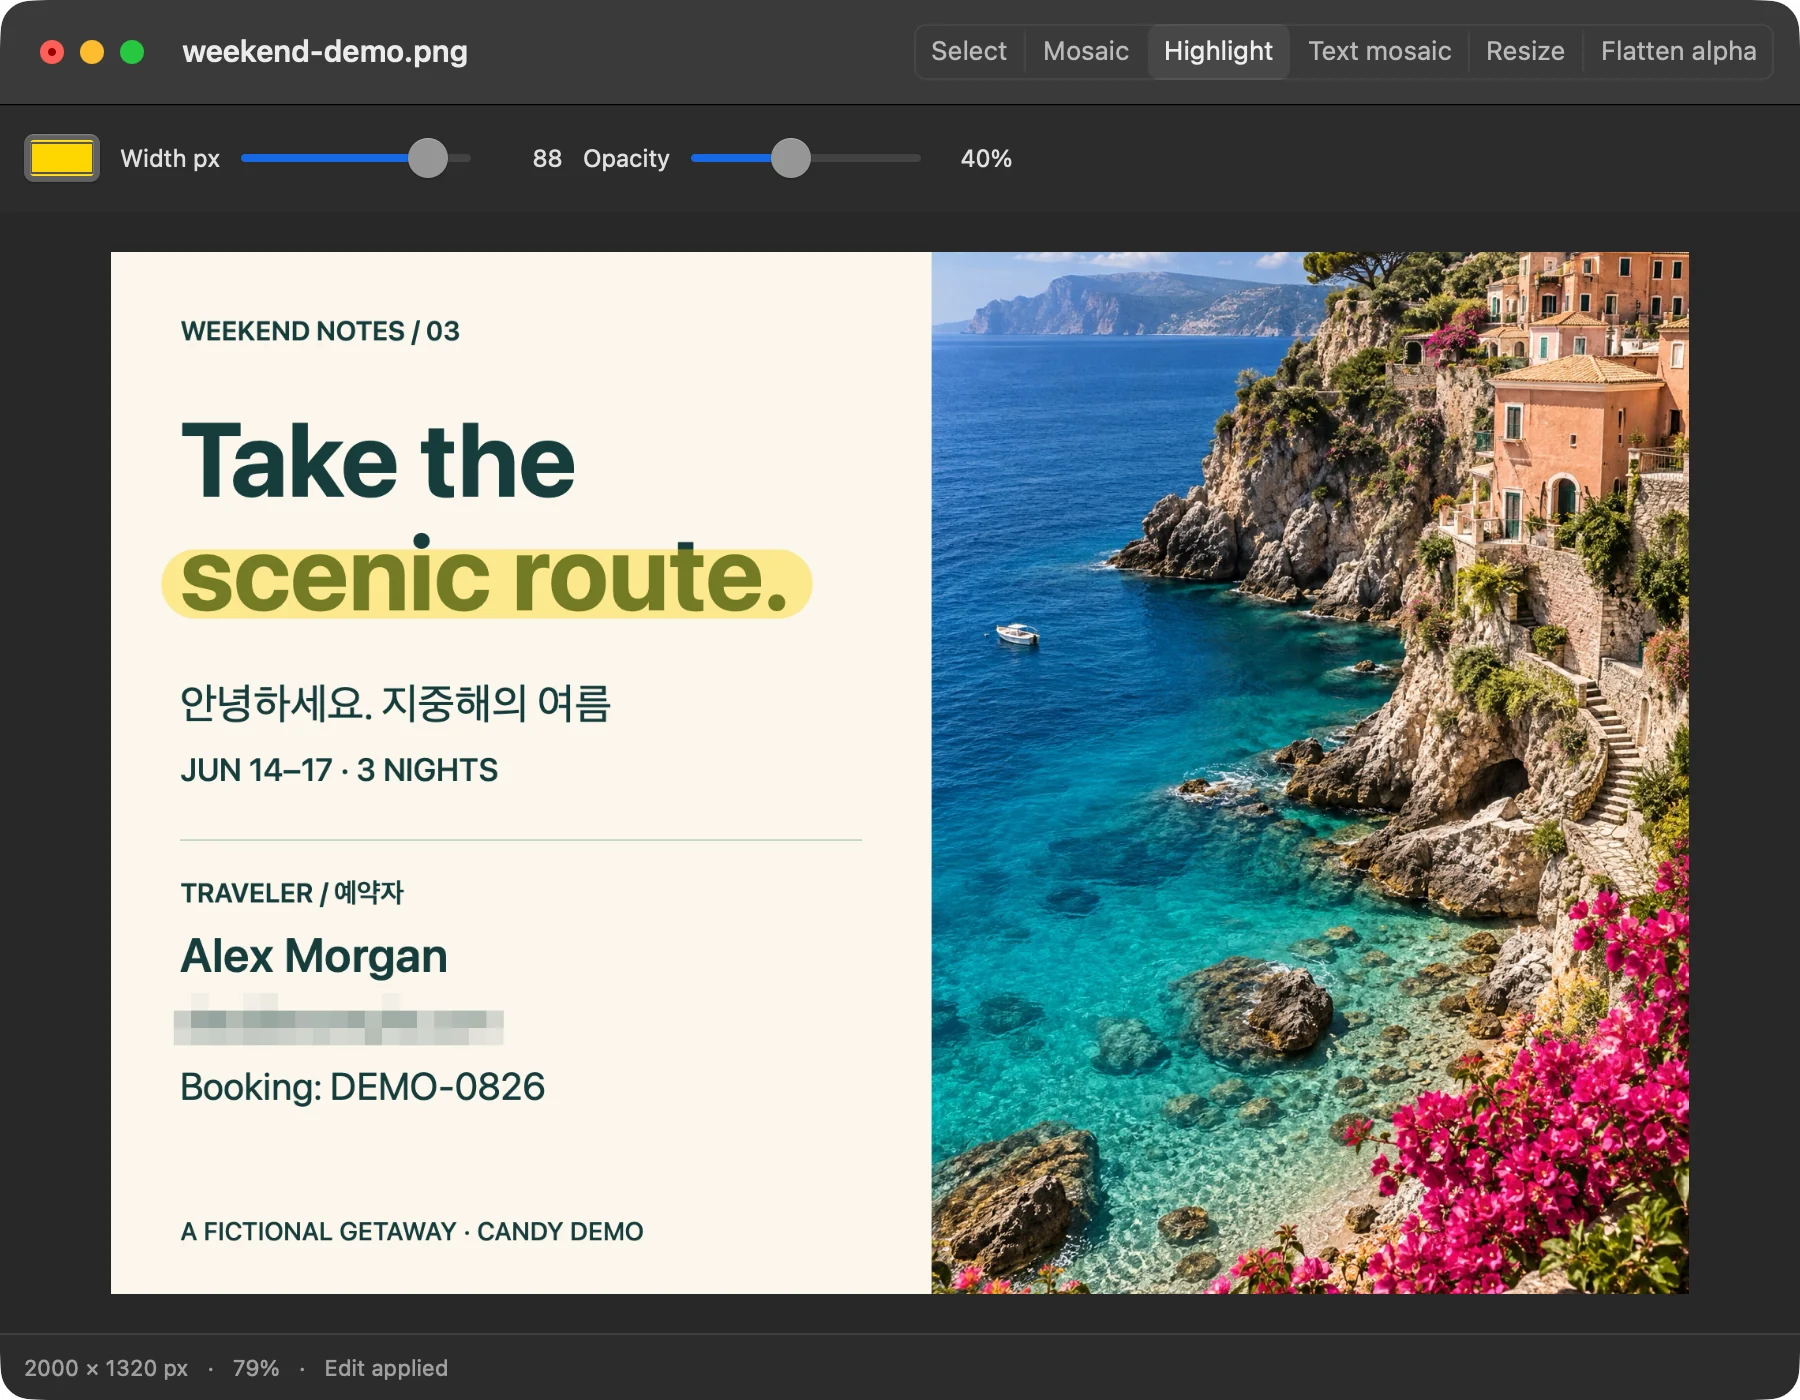
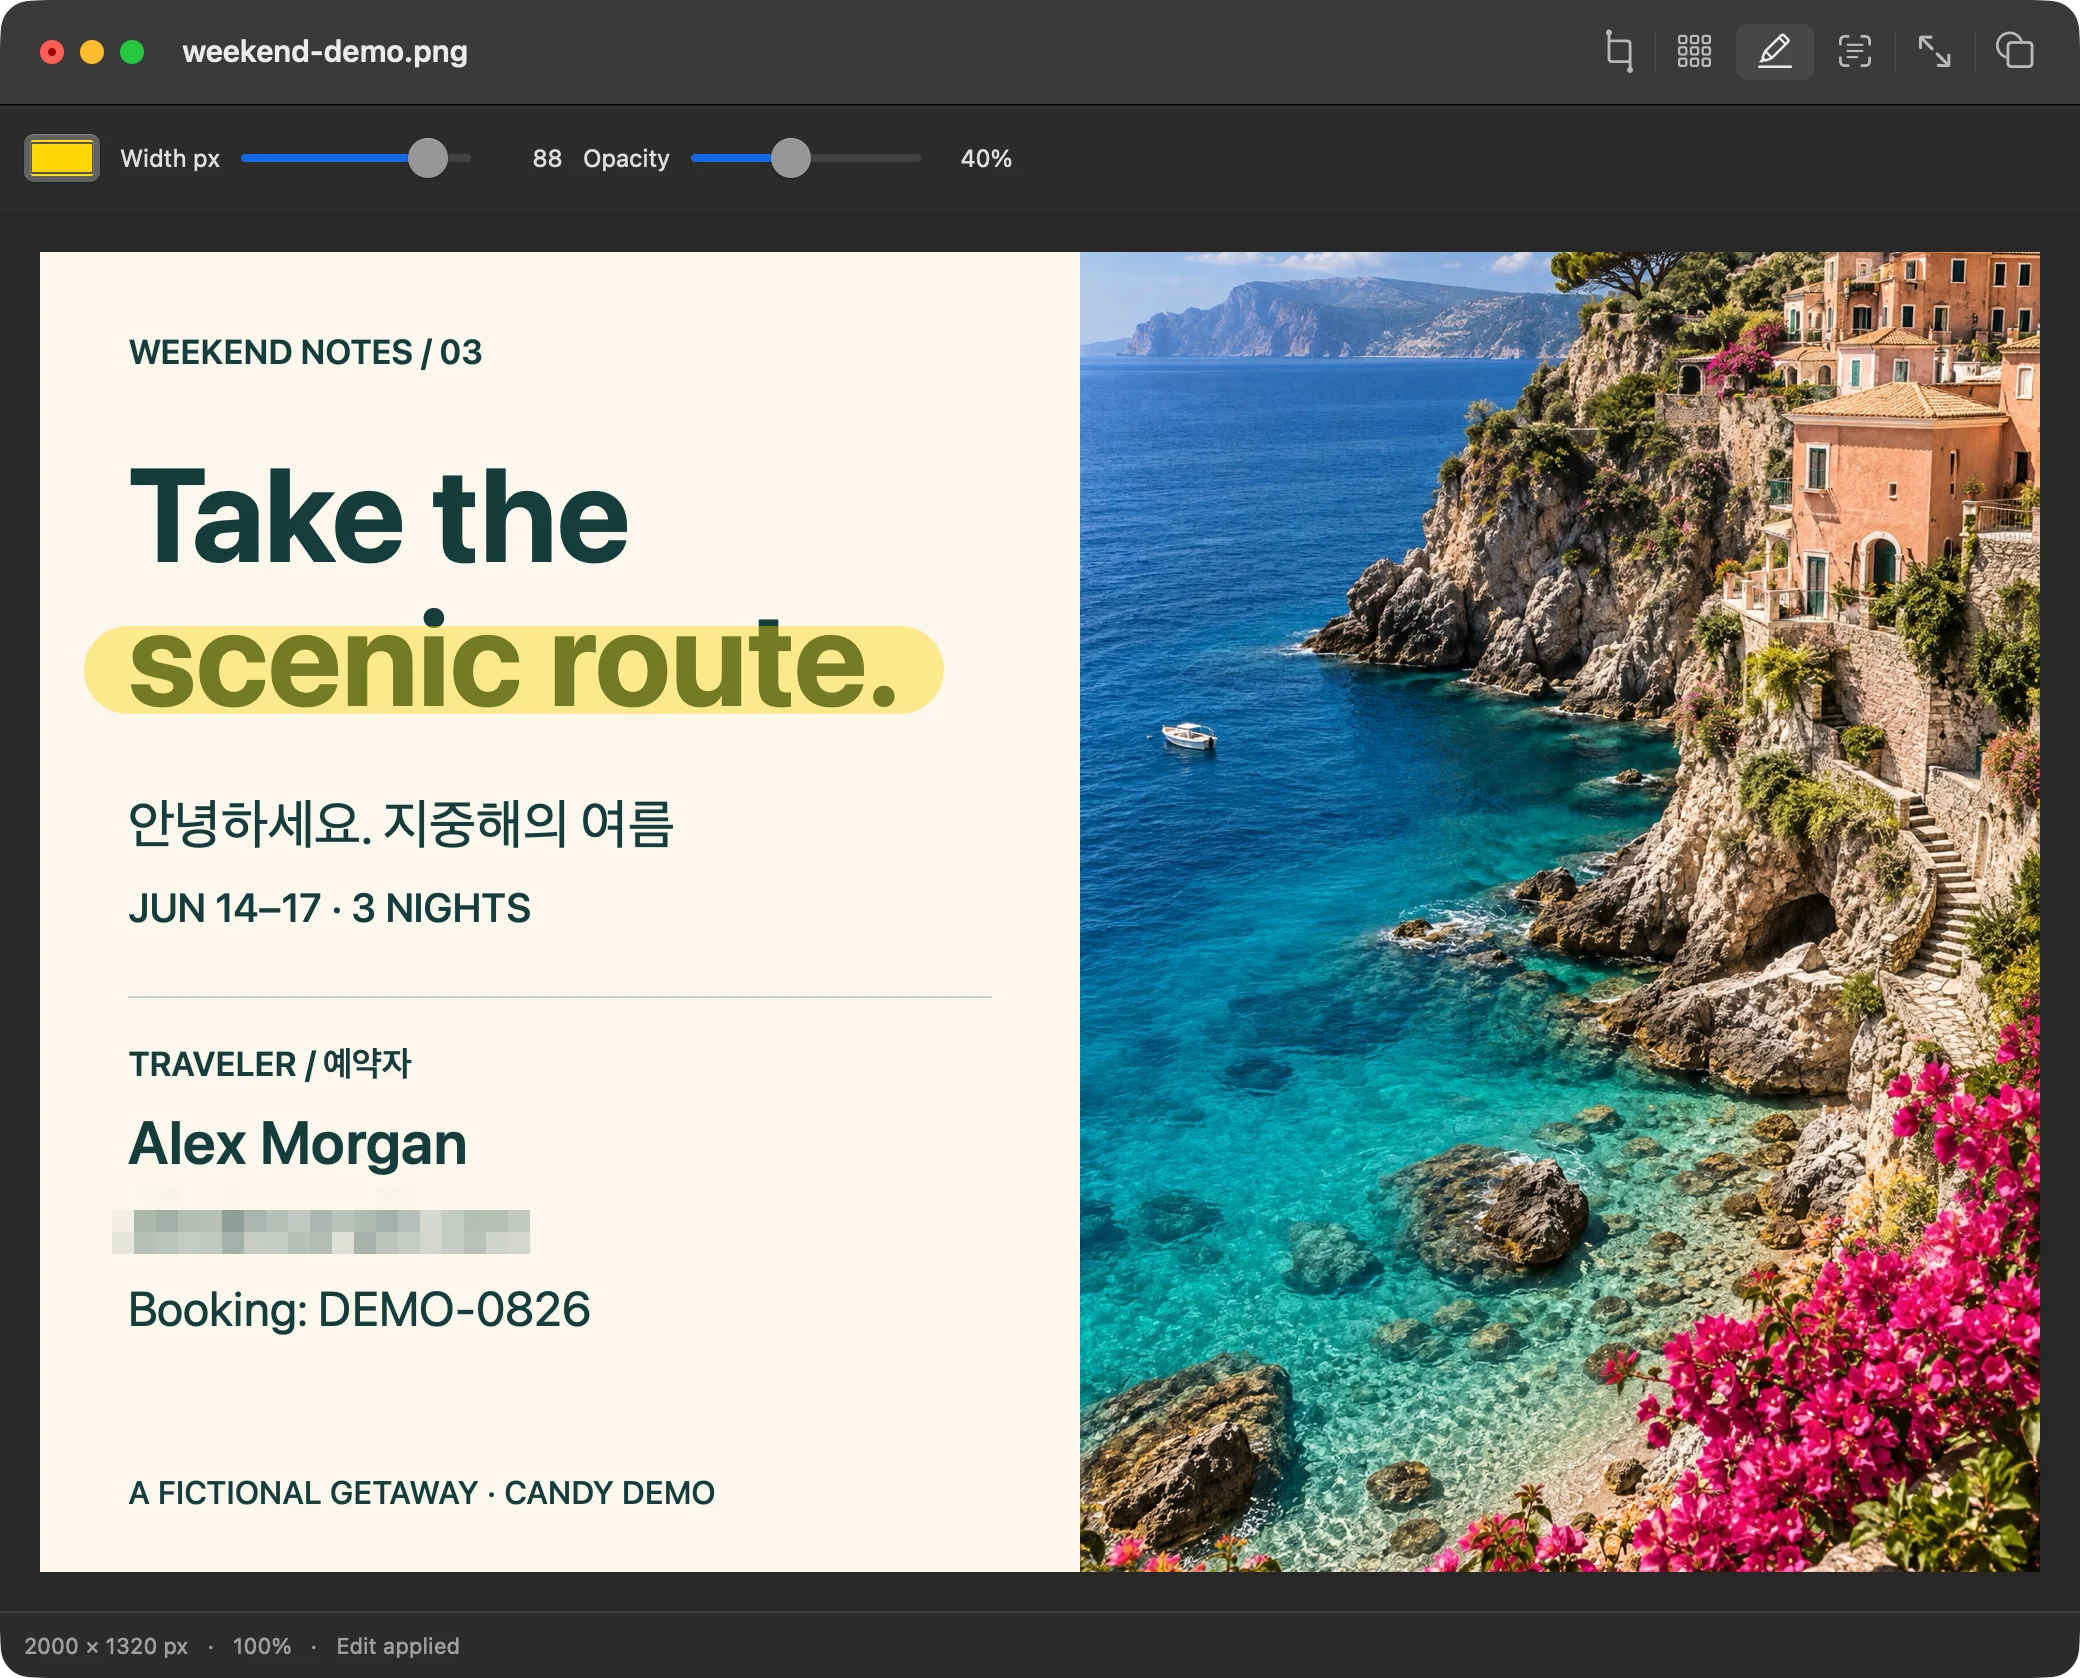
chore(site): refresh the editor screenshot and social cards for 0.2.0
- Recapture the dark editor window from Candy 0.2.0, sized to the demo card at Actual Size with the icon tool selector, at 2080 x 1678
- Re-encode the WebP variant and update the image dimensions on both pages and the OG card
- Raise the editor image on the OG card so the taller capture clears the platform note, and rebuild both cards
- Record the new capture method and source in credits.txt

diff --git a/scripts/og/index.html b/scripts/og/index.html
@@ -17,7 +17,7 @@
     h1 { position: absolute; left: 54px; top: 157px; margin: 0; width: 540px; font-size: 76px; font-weight: 780; line-height: 1.04; letter-spacing: -3px; }
     h1 span { color: #923e2c; }
     .description { position: absolute; left: 58px; top: 426px; margin: 0; width: 455px; font-size: 23px; line-height: 1.5; font-weight: 450; color: #555c65; }
-    .editor { position: absolute; left: 611px; top: 124px; width: 552px; height: auto; border-radius: 12px; box-shadow: 0 24px 42px #57231338; }
+    .editor { position: absolute; left: 611px; top: 96px; width: 552px; height: auto; border-radius: 12px; box-shadow: 0 24px 42px #57231338; }
     .domain { position: absolute; left: 58px; bottom: 43px; font-size: 20px; font-weight: 650; letter-spacing: -.25px; }
     .platform { position: absolute; right: 40px; bottom: 44px; margin: 0; color: #693627; font-size: 17px; font-weight: 550; }
     .ko { display: none; }
@@ -38,7 +38,7 @@
     <h1 class="ko">이미지 편집,<br /><span>간단하게.</span></h1>
     <p class="description en">Your Mac’s little image editor.<br />Free. Open source. Entirely local.</p>
     <p class="description ko">강조할 때는 형광펜, 가릴 때는 모자이크.<br />Mac용 무료 오픈소스 이미지 편집기.</p>
-    <img class="editor" src="../../site/assets/candy-editor.png" width="1800" height="1400" alt="The real Candy editor with a highlighted travel card and a pixelated sample email" />
+    <img class="editor" src="../../site/assets/candy-editor.png" width="2080" height="1678" alt="The real Candy editor with a highlighted travel card and a pixelated sample email" />
     <div class="domain">candy.told.me</div>
     <p class="platform en">macOS 14+ · Apple Silicon</p>
     <p class="platform ko">macOS 14 이상 · Apple Silicon</p>

diff --git a/site/ko/index.html b/site/ko/index.html
@@ -140,8 +140,8 @@
               <source srcset="../assets/candy-editor.webp" type="image/webp" />
               <img
                 src="../assets/candy-editor.png"
-                width="1800"
-                height="1400"
+                width="2080"
+                height="1678"
                 fetchpriority="high"
                 alt="여행 카드의 제목을 노란색 형광펜으로 강조하고 이메일 주소를 모자이크로 가린 Candy 편집 화면"
               />

diff --git a/site/index.html b/site/index.html
@@ -137,8 +137,8 @@
               <source srcset="./assets/candy-editor.webp" type="image/webp" />
               <img
                 src="./assets/candy-editor.png"
-                width="1800"
-                height="1400"
+                width="2080"
+                height="1678"
                 fetchpriority="high"
                 alt="Candy editing a fictional coastal travel card, with the headline highlighted in yellow and the sample email pixelated"
               />
